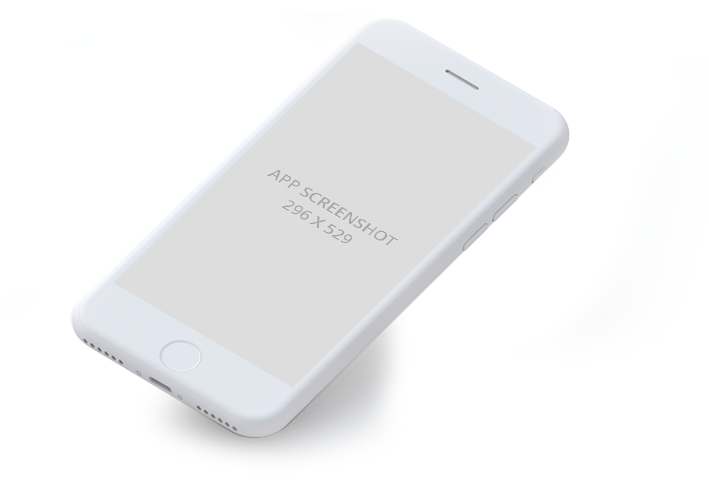
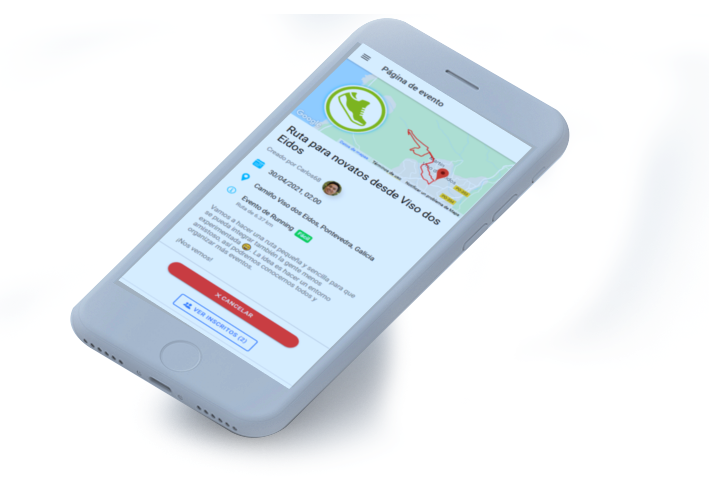
Made aboutus + future features

diff --git a/src/app/home/about/about.component.html b/src/app/home/about/about.component.html
@@ -9,57 +9,56 @@
       <div class="col-md-5">
         <div class="about-contain">
           <div>
-            <h2 class="title">about the <span>tovo app</span></h2>
-            <p class="caption-about">TOVO is dynamic, high-performance and easy to use landing page theme. The theme is developed focusing on the attractive designs and easy customizable features.</p>
+            <h2 class="title">¿qué es <span>Dromous</span>?</h2>
+            <p class="caption-about description no-caps">
+              Nuestro objetivo es interconectar a los aficionados al deporte entre sí: permitir a los usuarios crear y asistir a eventos deportivos de toda índole. 
+            </p>
+            <p class="caption-about description no-caps">
+              Una agradable ruta ciclista por la montaña, una pachanguita de fútbol, una ligera sesión de <i>running</i> matutina, entrenamientos calisténicos, quedadas de skate... ¡hay de todo! 
+            </p>
             <div class="row sm-mb">
-              <div class="col-6">
-                <ul class="about-style">
-                  <li class="abt-hover">
-                    <div class="about-icon">
-                      <div class="icon-hover">
-                        <img src="assets/images/icon1.png" alt="easy-to-customized">
-                      </div>
+              <ul class="about-style margin-top20">
+                <li class="abt-hover">
+                  <div class="about-icon">
+                    <div class="icon-hover">
+                      <img src="assets/images/icon1.png" alt="easy-to-customized">
                     </div>
-                    <div class="about-text">
-                      <h3>Easy customize</h3>
+                  </div>
+                  <div class="about-text list-label-margin">
+                    <h3 class="no-caps">Practica gratis toda clase de deportes </h3>
+                  </div>
+                </li>
+                <li class="abt-hover">
+                  <div class="about-icon">
+                    <div class="icon-hover">
+                      <img src="assets/images/icon3.png" alt="easy-to-use">
                     </div>
-                  </li>
-                  <li class="abt-hover">
-                    <div class="about-icon">
-                      <div class="icon-hover">
-                        <img src="assets/images/icon3.png" alt="easy-to-use">
-                      </div>
+                  </div>
+                  <div class="about-text list-label-margin">
+                    <h3 class="no-caps">Conoce a otros deportistas</h3>
+                  </div>
+                </li>
+                <li class="abt-hover">
+                  <div class="about-icon">
+                    <div class="icon-hover">
+                      <img src="assets/images/icon2.png" alt="Awasome-Design">
                     </div>
-                    <div class="about-text">
-                      <h3>easy to use</h3>
+                  </div>
+                  <div class="about-text list-label-margin">
+                    <h3 class="no-caps">Organiza tus propios eventos</h3>
+                  </div>
+                </li>
+                <li class="abt-hover">
+                  <div class="about-icon">
+                    <div class="icon-hover">
+                      <img src="assets/images/icon4.png" alt="SEO-Friendly">
                     </div>
-                  </li>
-                </ul>
-              </div>
-              <div class="col-6">
-                <ul class="about-style">
-                  <li class="abt-hover">
-                    <div class="about-icon">
-                      <div class="icon-hover">
-                        <img src="assets/images/icon2.png" alt="Awasome-Design">
-                      </div>
-                    </div>
-                    <div class="about-text">
-                      <h3>Nice Design</h3>
-                    </div>
-                  </li>
-                  <li class="abt-hover">
-                    <div class="about-icon">
-                      <div class="icon-hover">
-                        <img src="assets/images/icon4.png" alt="SEO-Friendly">
-                      </div>
-                    </div>
-                    <div class="about-text">
-                      <h3>SEO Friendly</h3>
-                    </div>
-                  </li>
-                </ul>
-              </div>
+                  </div>
+                  <div class="about-text list-label-margin">
+                    <h3 class="no-caps">Y pronto, mucho más. Sigue bajando 😉</h3>
+                  </div>
+                </li>
+              </ul>
             </div>
             <div class="top-margin">
               <button type="button" class="btn btn-custom theme-color theme-color">view more</button>

diff --git a/src/app/home/feature/feature.component.html b/src/app/home/feature/feature.component.html
@@ -11,7 +11,7 @@
       <div class="offset-lg-4 col-lg-8">
         <div class="row">
           <div class="col-sm-12 mrgn-md-top">
-            <h2 class="title">features of<span> tovo</span></h2>
+            <h2 class="title">futuras <span>funcionalidades</span></h2>
           </div>
           <div class="col-12 col-md-6">
             <ul class="feature-style">
@@ -20,21 +20,10 @@
                   <img src="assets/images/icon/1.png" alt="icon">
                 </div>
                 <div class="feature-subtitle">
-                  <h3>user friendly</h3>
+                  <h3>Administrar suscripciones a gimnasios</h3>
                 </div>
                 <div>
-                  <p>Lorem Ipsum is simply dummy text of the printing and typesetting industry. </p>
-                </div>
-              </li>
-              <li>
-                <div class="feature-icon">
-                  <img src="assets/images/icon/3.png" alt="icon">
-                </div>
-                <div class="feature-subtitle">
-                  <h3>high performance</h3>
-                </div>
-                <div>
-                  <p>Lorem Ipsum is simply dummy text of the printing and typesetting industry. </p>
+                  <p class="no-caps">Podrás adquirir y administrar suscripciones a gimnasios, así como comprar clases individuales, y mantener un registro de tus entrenos.</p>
                 </div>
               </li>
               <li>
@@ -42,10 +31,21 @@
                   <img src="assets/images/icon/5.png" alt="icon">
                 </div>
                 <div class="feature-subtitle">
-                  <h3>unlimited features</h3>
+                  <h3>Recordatorio de entreno</h3>
                 </div>
-                <div>
-                  <p>Lorem Ipsum is simply dummy text of the printing and typesetting industry. </p>
+                <div class="no-caps">
+                  <p class="no-caps">Recibirás una notificación push cada vez que tengas que entrenar, adaptado a tus necesidades.</p>
+                </div>
+              </li>
+              <li>
+                <div class="feature-icon">
+                  <img src="assets/images/icon/3.png" alt="icon">
+                </div>
+                <div class="feature-subtitle">
+                  <h3>Chats zonales y de usuario</h3>
+                </div>
+                <div class="no-caps">
+                  <p class="no-caps">Podrás hablar con gente de tu zona para organizar eventos, tanto en un chat zonal, como por privado.</p>
                 </div>
               </li>
             </ul>
@@ -57,10 +57,10 @@
                   <img src="assets/images/icon/2.png" alt="icon">
                 </div>
                 <div class="feature-subtitle">
-                  <h3>quick update</h3>
+                  <h3>Mercadillo Fitness</h3>
                 </div>
                 <div>
-                  <p>Lorem Ipsum is simply dummy text of the printing and typesetting industry. </p>
+                  <p class="no-caps">Compra o vende material de segunda mano en tu zona.</p>
                 </div>
               </li>
               <li>
@@ -68,10 +68,10 @@
                   <img src="assets/images/icon/4.png" alt="icon">
                 </div>
                 <div class="feature-subtitle">
-                  <h3>100% secure</h3>
+                  <h3>Estadísticas de seguimiento</h3>
                 </div>
                 <div>
-                  <p>Lorem Ipsum is simply dummy text of the printing and typesetting industry. </p>
+                  <p class="no-caps">Cada vez que vayas a un evento, una clase individual o un entrenamiento de una suscripción, se guardará tu progreso para que puedas hacer un seguimiento.</p>
                 </div>
               </li>
               <li>
@@ -79,10 +79,10 @@
                   <img src="assets/images/icon/6.png" alt="icon">
                 </div>
                 <div class="feature-subtitle">
-                  <h3>24 x 7 support</h3>
+                  <h3>Integración de otros centros</h3>
                 </div>
                 <div>
-                  <p>Lorem Ipsum is simply dummy text of the printing and typesetting industry. </p>
+                  <p class="no-caps">Además de los gimnasios, también integraremos otros negocios relacionados con el deporte, como nutricionistas, clínicas de fisioterapia, y mucho más.</p>
                 </div>
               </li>
             </ul>

diff --git a/src/app/home/intro-one/intro-one.component.html b/src/app/home/intro-one/intro-one.component.html
@@ -11,12 +11,14 @@
         <div class="home-contain">
           <div>
             <img src="assets/images/dromous_logo.png" alt="caption-img" class="caption-img dromous-logo-small">
-            <h4 style="margin-left:3px;position:absolute">Te presentamos...</h4>
-            <h1> Dromous
+            <h4 style="margin-left:3px">Te presentamos...</h4>
+            <h1 style="margin-top:0px !important;"> Dromous
              <span class="f-bold f-color">app</span>
              <span class="beta-badge">BETA</span>
             </h1>
-            <p style="text-transform: none;">Elevando el deporte a los estándares del siglo XXI: queda con otros deportistas en eventos personalizados, registra tus entrenamientos... ¡y pronto, mucho más!</p>
+            <p class="no-caps">Dromous es un ecosistema digital del deporte, donde buscamos conectar a deportistas aficionados con su entorno deportivo local, y permitirles crear y participar en eventos personalizados. Dromous también buscar ofrecer toda clase de servicios que hagan el deporte más fácil y accesible para todo el mundo.</p>
+            <p class="no-caps">Además, <span class="itsfree">¡es 100% gratuita!</span></p>
+
             <a [routerLink]="'/home/one'"><img src="assets/images/appstore.png" alt="appstore" class="store"></a>
             <a [routerLink]="'/home/one'"><img class="ml-20 store" src="assets/images/play-store.png" alt="play-store"></a>
           </div>

diff --git a/src/styles.scss b/src/styles.scss
@@ -1,1 +1,8 @@
 /* You can add global styles to this file, and also import other style files */
+.margin-top20{
+    margin-top: 20px;
+}
+
+.no-caps {
+    text-transform: none !important;
+}

diff --git a/src/app/home/intro-one/intro-one.component.scss b/src/app/home/intro-one/intro-one.component.scss
@@ -12,3 +12,8 @@
     color: white;
     font-weight: 400;
 }
+
+.itsfree{
+    font-size: 26px;
+    font-weight: 600;
+}

diff --git a/src/app/home/about/about.component.scss b/src/app/home/about/about.component.scss
@@ -1,0 +1,6 @@
+
+
+.list-label-margin{
+    margin-left: 15px;
+}
+
